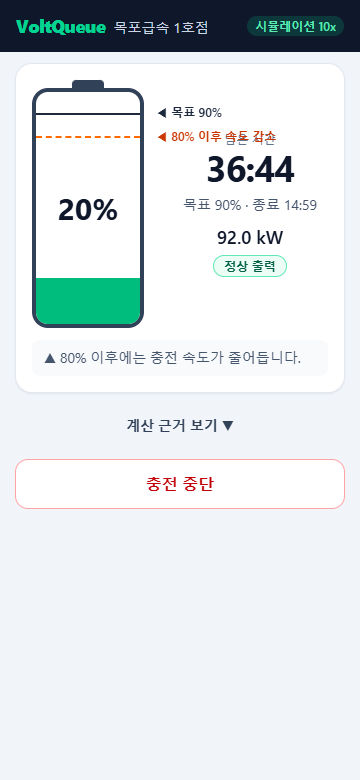
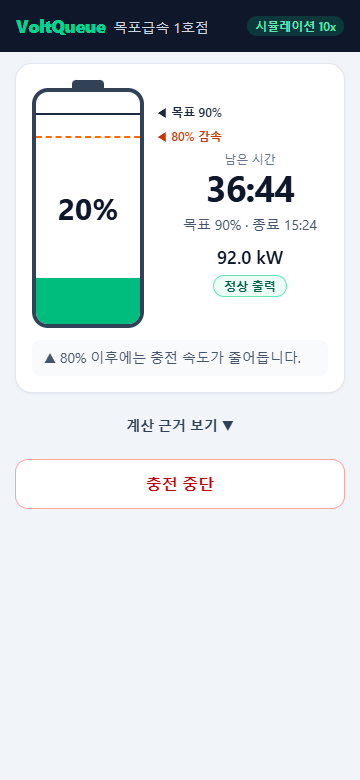
Fix overlap of the 80% gauge label and the countdown on the charging screen
Shorten the gauge label to "80% 감속" and move the countdown block down so
neither collides at 360px. Refresh the E2E screenshots.

Changed region(s): [[0.5194, 0.1538, 0.8861, 0.4]]

diff --git a/frontend/src/mobile/Charging.tsx b/frontend/src/mobile/Charging.tsx
@@ -25,7 +25,7 @@ export default function Charging({ session }: { session: Session }) {
       <Card>
         <div className="flex items-center gap-4">
           <BatteryGauge soc={session.soc_current} target={session.soc_target} />
-          <div className="min-w-0 flex-1 text-center">
+          <div className="min-w-0 flex-1 pt-10 text-center">
             <p className="text-xs text-slate-500">남은 시간</p>
             <p className="text-4xl font-bold tabular-nums tracking-tight" aria-live="off">
               {mmss(left)}

diff --git a/frontend/src/mobile/ui.tsx b/frontend/src/mobile/ui.tsx
@@ -186,7 +186,7 @@ export function BatteryGauge({ soc, target }: { soc: number; target: number }) {
       </div>
       <div className="relative h-60 text-xs font-semibold">
         <span className="absolute left-0 whitespace-nowrap text-orange-700" style={{ bottom: "calc(80% - 8px)" }}>
-          ◀ 80% 이후 속도 감소
+          ◀ 80% 감속
         </span>
         <span
           className="absolute left-0 whitespace-nowrap text-slate-800"
